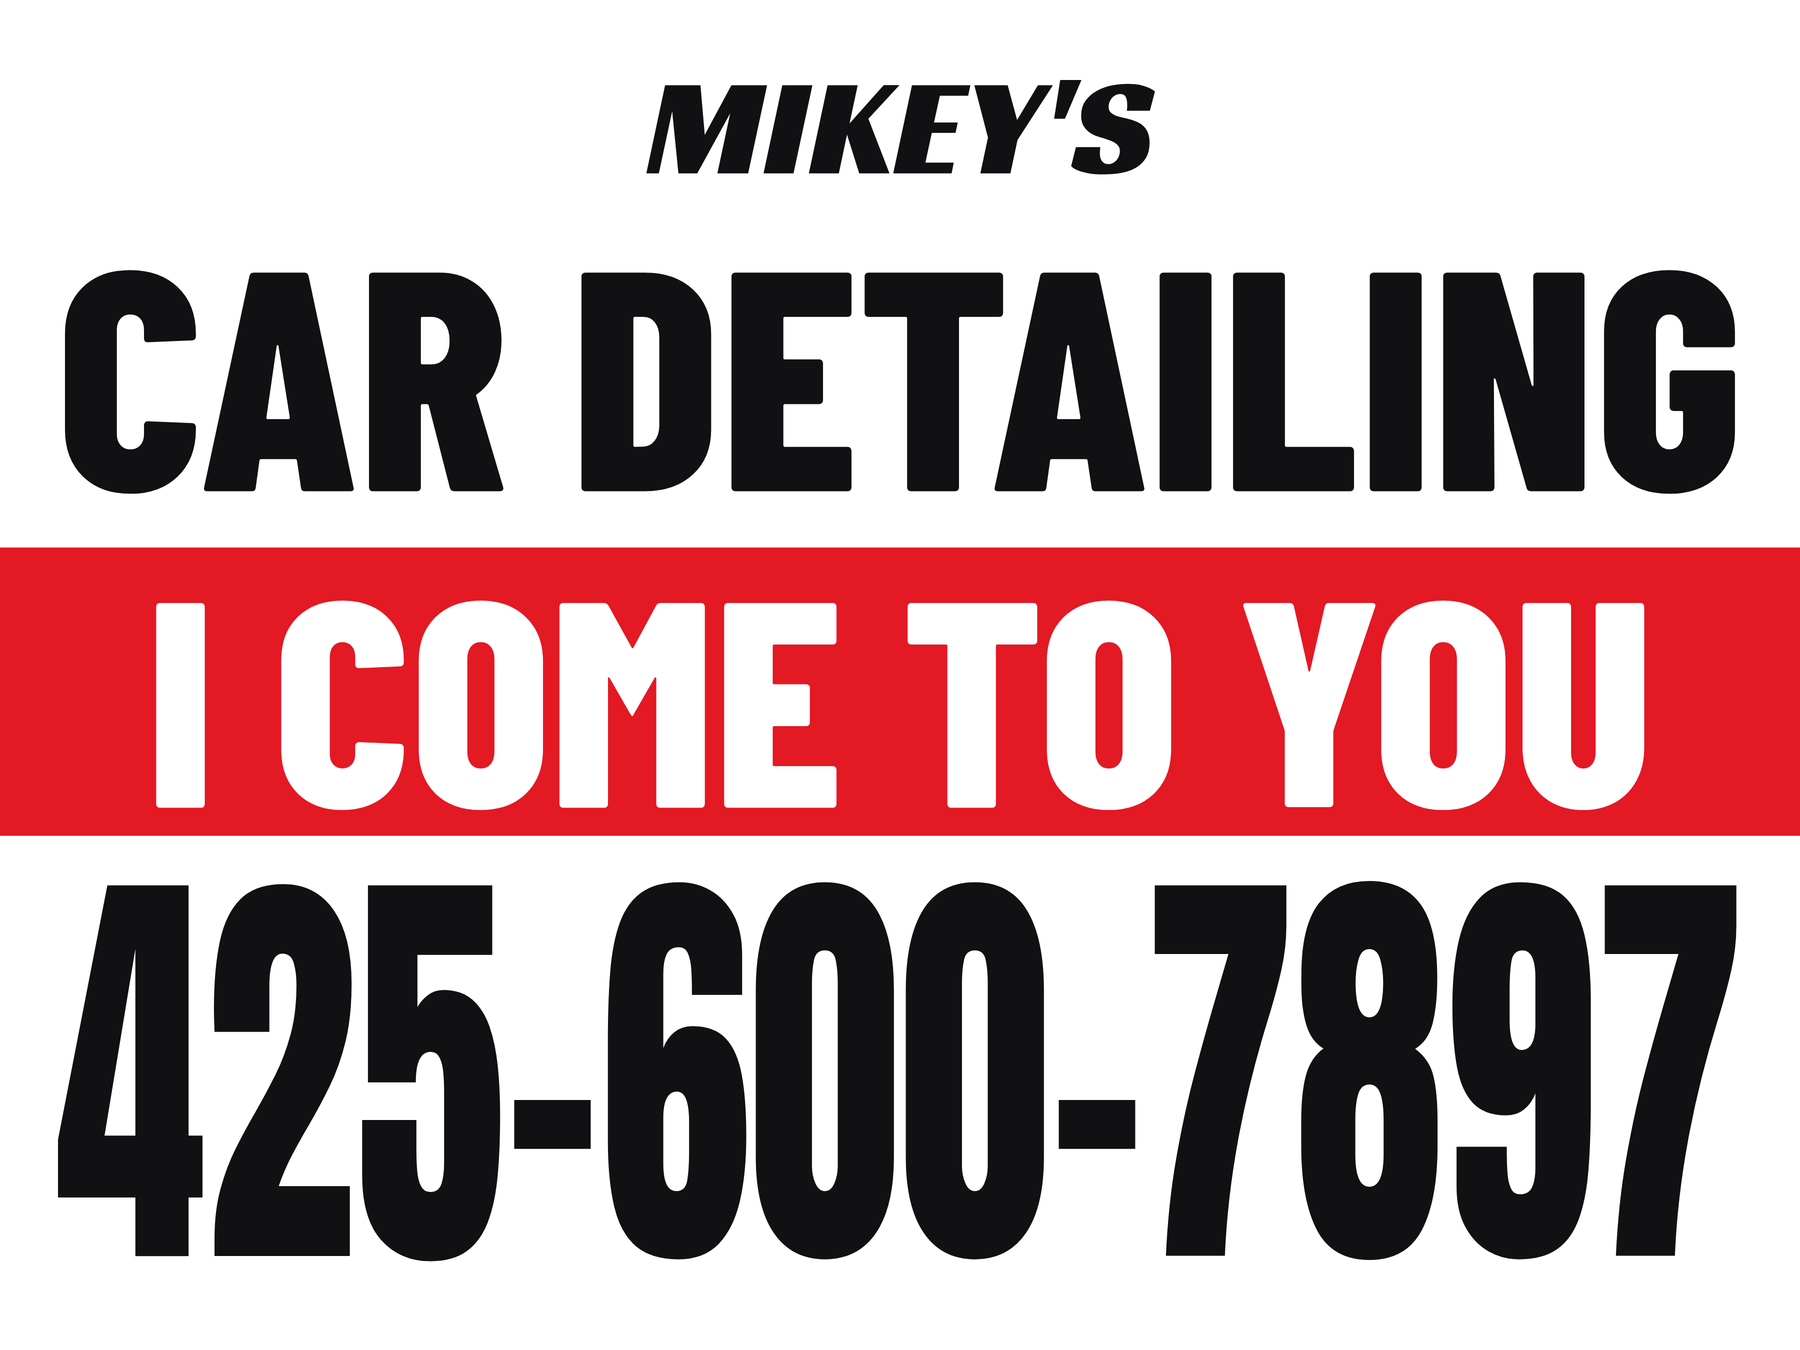
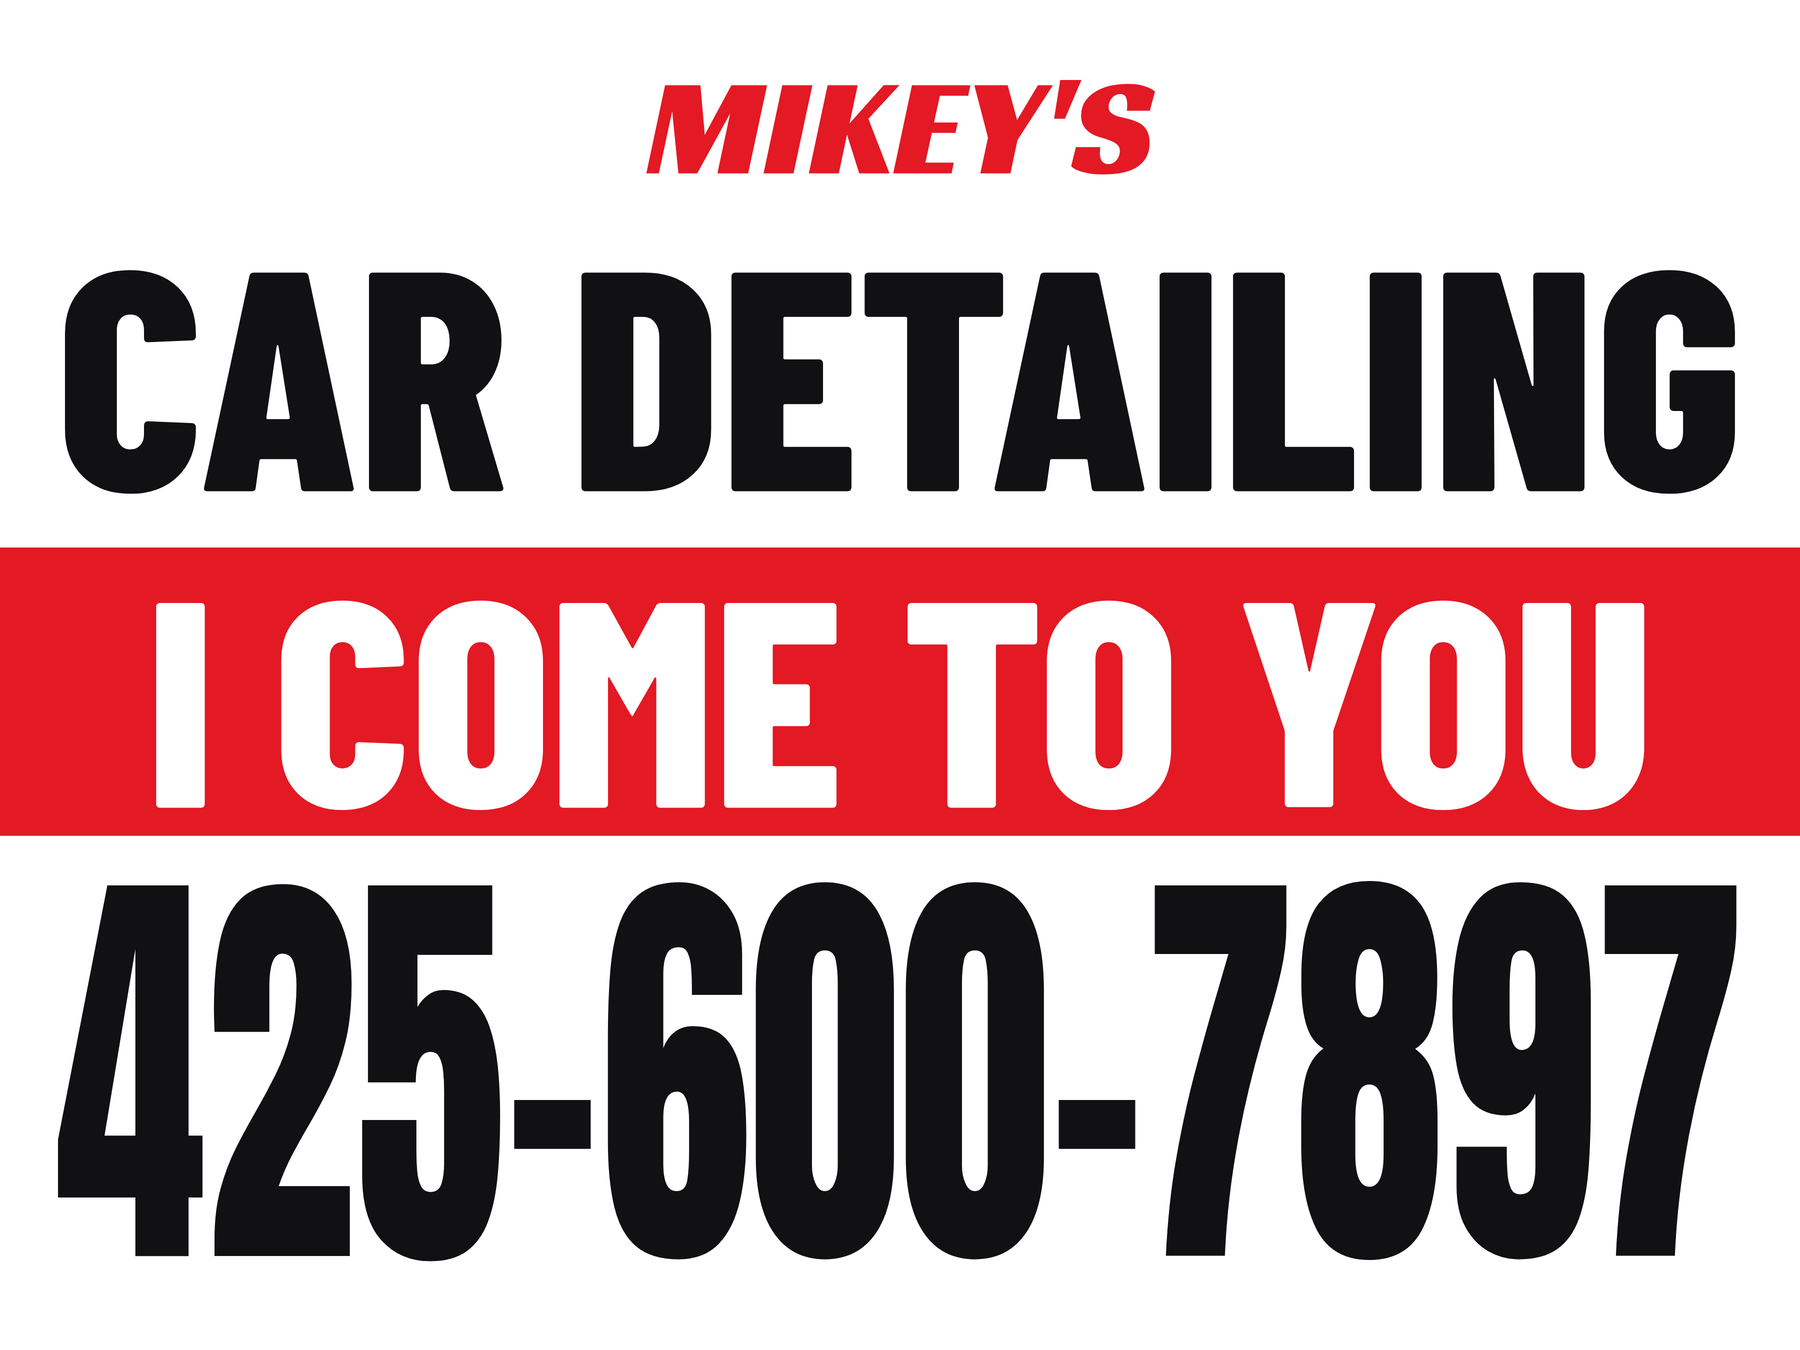
Yard sign: keep MIKEY'S red at the smaller size
Mikey's call: small, but still brand red.

Claude-Session: https://claude.ai/code/session_01UPHToftEyWzvx3bWRMDMZX

Changed region(s): [[0.3422, 0.0622, 0.6533, 0.1556]]

diff --git a/print/yard-signs/README.md b/print/yard-signs/README.md
@@ -106,7 +106,7 @@ so a phone number you want read from 100 feet needs 3 to 4 inch characters.
 options compared that day):
 
 ```
-            MIKEY'S               (black, Racing Sans One, the logo's face: 1.2 in letters)
+            MIKEY'S               (red, Racing Sans One, the logo's face: 1.2 in letters)
          CAR DETAILING            (black, Barlow Condensed: 2.9 in letters)
          I COME TO YOU            (white on a full-width red band: 2.7 in letters)
           425-600-7897            (black, Anton stretched tall: 5 in digits)
@@ -121,9 +121,8 @@ Why it's laid out that way:
 - **The number is the biggest thing**, and the only thing a driver can act on.
   A tall, narrow number font (an idea taken off the printer's first proof)
   and dropping the brackets took the digits from 2.6 in to 5 in.
-- **The name sits back.** MIKEY'S is small and black, not red, so the only red
-  on the sign is the band and the eye goes what, how, number (Mikey,
-  2026-10-01). It's there for the people who pass it every day and later
+- **The name sits back.** MIKEY'S stays brand red but small (1.2 in), so the
+  eye goes what, how, number before it gets to the name (Mikey, 2026-10-01). It's there for the people who pass it every day and later
   search the name, not for the first glance.
 - **No QR and no website.** Drivers don't scan, and the strip they took up was
   most of the number's lost height. Sign leads get logged by asking (section 6).
